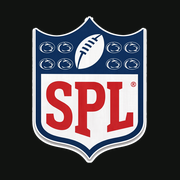
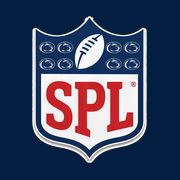
v0.5.1: Nittany theme (Penn State blue + white) replaces Stadium Lights
Navy header, white cards, Beaver Blue accents, gold/red only for Needs-you and
alerts; navy status bar + manifest; icons re-backed on navy (?v=3). Reel guards
for partial data.

Claude-Session: https://claude.ai/code/session_015P3LFQ2z16oDQov3WTi7Ug

diff --git a/index.html b/index.html
@@ -4,17 +4,17 @@
 <meta charset="utf-8">
 <meta name="viewport" content="width=device-width, initial-scale=1, viewport-fit=cover, maximum-scale=1">
 <meta name="robots" content="noindex">
-<meta name="theme-color" content="#111311">
+<meta name="theme-color" content="#041E42">
 <meta name="apple-mobile-web-app-capable" content="yes">
 <meta name="mobile-web-app-capable" content="yes">
 <meta name="apple-mobile-web-app-status-bar-style" content="black-translucent">
 <meta name="apple-mobile-web-app-title" content="SPL HQ">
 <link rel="manifest" href="manifest.json">
-<link rel="apple-touch-icon" sizes="180x180" href="icons/icon-180.png?v=2">
-<link rel="icon" type="image/png" sizes="64x64" href="icons/favicon-64.png?v=2">
-<link rel="icon" type="image/png" sizes="192x192" href="icons/icon-192.png?v=2">
+<link rel="apple-touch-icon" sizes="180x180" href="icons/icon-180.png?v=3">
+<link rel="icon" type="image/png" sizes="64x64" href="icons/favicon-64.png?v=3">
+<link rel="icon" type="image/png" sizes="192x192" href="icons/icon-192.png?v=3">
 <title>SPL HQ</title>
-<!-- SPL HQ app · v0.5 · 2026-11-25. Plan: docs/SPL_REEL_PLAN.md. Rules: CLAUDE.md. -->
+<!-- SPL HQ app · v0.5.1 · 2026-11-25. Plan: docs/SPL_REEL_PLAN.md. Rules: CLAUDE.md. -->
 <style>
 :root{
   --night:#111311; --surface:#1B1E1B; --raised:#232823; --line:#2C312C;
@@ -165,11 +165,45 @@ nav.tabs .badge{position:absolute;top:2px;left:55%;background:var(--coral);color
 .offer .grid{grid-template-columns:1fr 1fr}
 .composer{position:fixed;left:0;right:0;bottom:calc(var(--bot) + 62px);background:var(--night);border-top:1px solid var(--line);padding:8px 12px;display:flex;gap:8px;z-index:9}
 .composer textarea{min-height:40px;max-height:120px;height:40px;flex:1;padding:9px 10px}
+/* ===== "Nittany" theme (Mike 11/25): Penn State blue + white. Replaces Stadium Lights. ===== */
+:root{
+  --night:#FFFFFF; --surface:#FFFFFF; --raised:#EEF3FA; --line:#D6DFEC;
+  --chalk:#0B1F3A; --muted:#5D6E89; --soft:#33465F;
+  --lime:#1E407C; --gold:#B88A2E; --coral:#C8102E;
+}
+html,body{background:#F2F5FA}
+header{background:#041E42;border-bottom:0;color:#fff}
+header h1 small{color:#96BEE6}
+header .pill{background:rgba(255,255,255,.12);border-color:rgba(255,255,255,.2);color:#cfe0f5}
+header .pill.ok{color:#96BEE6}
+header .me{background:#fff;color:#041E42}
+nav.tabs{background:#fff;border-top:1px solid var(--line);box-shadow:0 -2px 12px rgba(4,30,66,.06)}
+nav.tabs button.on{color:#041E42}
+.card,.dcard,.tile{box-shadow:0 1px 3px rgba(4,30,66,.08)}
+.card.lead{background:linear-gradient(135deg,#041E42,#1E407C);border:0;color:#fff}
+.card.lead .eyebrow{color:#96BEE6} .card.lead p{color:#dbe7f6}
+.dcard.hero{border:2px solid #1E407C} .dcard.needs{border:2px solid #B88A2E}
+.stamp.me{background:#1E407C;color:#fff} .stamp.lg{background:#041E42;color:#fff}
+.acttag{background:#B88A2E;color:#fff}
+.vs .win .sc,.lime{color:#1E407C}
+.zero{background:#1E407C;color:#fff}
+.irail i.on{background:#1E407C}
+.swu .dn{background:#1E407C;color:#fff} .swu .sv{background:#B88A2E;color:#fff}
+.undo{background:#041E42;color:#fff} .undo button{background:#96BEE6;color:#041E42}
+.saved{background:#FFF6E3} .saved.dnc{background:#E8F0FB;border-color:#1E407C;color:#1E407C}
+.game.mine{background:linear-gradient(90deg,rgba(30,64,124,.08),transparent)}
+.msg.me{background:#1E407C;color:#fff;border-color:#1E407C}
+.tag{background:#EEF3FA;color:#8A6516;border-color:#E3D3AE}
+textarea,input[type=text],select{background:#fff}
+.btn.ghost{background:#fff;color:#1E407C;border-color:#C9D6EA}
+.chip{background:#fff}
+.chip.on{background:#1E407C;color:#fff;border-color:#1E407C}
+.feedwrap{background:transparent}
 </style>
 </head>
 <body>
 <header>
-  <img class="crest" src="icons/crest.png?v=2" alt="SPL crest, back to Home" role="link" onclick="go('home')">
+  <img class="crest" src="icons/crest.png?v=3" alt="SPL crest, back to Home" role="link" onclick="go('home')">
   <h1>SPL HQ<small id="sub">State Penn League</small></h1>
   <span class="pill" id="conn">…</span>
   <button class="me" id="meBtn" onclick="go(ME ? 'you' : 'signin')">Sign in</button>
@@ -188,7 +222,7 @@ nav.tabs .badge{position:absolute;top:2px;left:55%;background:var(--coral);color
 "use strict";
 // ---- Config. API_URL = the Apps Script web app URL (Deploy → Web app). Public by design: it's not a secret.
 var API_URL = "https://script.google.com/macros/s/AKfycbyGjG8LNEpCBceV5DulbfyMGLk7_NnW_W8q_y0sq47-5LEbE9dOu9Rp3rSVK9YEmD_IRw/exec";
-var APP_VERSION = "0.5";
+var APP_VERSION = "0.5.1";
 
 // ---- Owners (from data/SPL_Owner_Registry.csv; names + teams only, no contact info ever).
 var OWNERS = [
@@ -314,7 +348,7 @@ function buildFeed(d) {
   if (ME && isDesk()) { var n = Object.keys(MY || {}).length;
     if (n < QUESTIONS.length) cards.push({ id: "questions", needs: 1, scope: "me", eb: "📋 For the commish", title: (me === "reilly" ? "Your questions, Joe" : "Questions for Joe"), body: '<div class="big">' + n + '<small class="muted" style="font-size:20px"> / ' + QUESTIONS.length + '</small></div><p>' + (me === "reilly" ? "Quick calls that decide how trades, picks and keeper contracts work in the app." : "Joe's answers shape the trade center. Answered so far.") + '</p>', action: [n ? "Keep going" : "Answer them", "go('joe')"] }); }
   var T = d.trades;
-  if (ME && T && T.ok) {
+  if (ME && T && T.ok && T.offers) {
     T.offers.filter(function (o) { return o.status === "PROPOSED" && o.to === me; }).forEach(function (o) {
       cards.push({ id: "offer:" + o.id, needs: 1, scope: "me", eb: "🔁 Trade offer · from " + esc(oname(o.from)), title: esc(oname(o.from)) + " wants to deal",
         body: '<div class="grid" style="gap:12px"><div><div class="eyebrow">You get</div>' + sideList(o.give, o.from) + '</div><div><div class="eyebrow">You send</div>' + sideList(o.get, o.to) + '</div></div>' + (o.note ? '<p class="story">“' + esc(o.note) + '”</p>' : ''),
@@ -326,7 +360,7 @@ function buildFeed(d) {
       cards.push({ id: "wire:" + o.id, scope: "league", eb: "📰 Trade wire" + (o.mode === "test" ? " · test" : ""), title: esc(oname(o.from)) + " ⇄ " + esc(oname(o.to)),
         body: '<div class="grid" style="gap:12px"><div><div class="eyebrow">' + esc(oname(o.to)) + ' gets</div>' + sideList(o.give, o.from) + '</div><div><div class="eyebrow">' + esc(oname(o.from)) + ' gets</div>' + sideList(o.get, o.to) + '</div></div>', action: ["Trade wire", "go('trades')"] }); });
   }
-  var mine = null, games = W && W.ok ? W.games : [];
+  var mine = null, games = W && W.ok && W.games ? W.games : [];
   games.forEach(function (g) { if (me && ((g.home && g.home.owner === me) || (g.away && g.away.owner === me))) mine = g; });
   // ⚔ You: your game
   if (mine) {
@@ -357,7 +391,7 @@ function buildFeed(d) {
       action: ["Open it", "go('match','" + wk + ":" + games.indexOf(close) + "')"] });
   }
   // 📊 League: the table
-  if (d.stand && d.stand.ok) {
+  if (d.stand && d.stand.ok && d.stand.teams) {
     var t = sortTeams(d.stand.teams), myRank = -1; t.forEach(function (x, i) { if (me && x.owner === me) myRank = i; });
     cards.push({ id: "table", scope: "league", eb: "📊 The table · after Week " + (d.stand.week ? d.stand.week - 1 : ""),
       body: t.slice(0, 6).map(function (x, i) { return '<div class="kv' + (x.owner === me ? " mine" : "") + '"><span><span class="muted">' + (i + 1) + '</span> ' + esc(x.name) + '</span><span>' + x.w + '–' + x.l + (x.t ? '–' + x.t : '') + '</span></div>'; }).join("") +

diff --git a/sw.js b/sw.js
@@ -1,6 +1,6 @@
 // SPL HQ service worker: network first for the app's own files, cached copy when offline.
 // Never caches the backend (script.google.com): live data is always fetched fresh.
-var CACHE = "splhq-v5";
+var CACHE = "splhq-v6";
 self.addEventListener("install", function (e) { self.skipWaiting(); });
 self.addEventListener("activate", function (e) { e.waitUntil(self.clients.claim()); });
 self.addEventListener("fetch", function (e) {

diff --git a/CLAUDE.md b/CLAUDE.md
@@ -35,10 +35,13 @@ Status log: `docs/STATUS.md`. Modeled on MAFFL HQ's REEL (`maffl-commish/maffl`)
 - Structural layout changes (tabs, navigation, page architecture) need Mike's OK. Content inside existing elements doesn't.
 - Keep each backend file under ~90 KB (Apps Script cache limit); split into parts like MAFFL when it grows.
 
-## Look and feel — "Stadium Lights"
-Night `#111311` · Surface `#1B1E1B` · Raised `#232823` · Line `#2C312C` · Chalk `#EDEFE8` · Muted `#9CA59C` ·
-Lime `#B8E04A` (accent, dark text on it) · Coral `#FF7A59` (alerts) · Gold `#D9A94A` (champions, tags).
+## Look and feel — "Nittany" (Penn State blue + white, Mike 11/25; replaced Stadium Lights)
+Nittany Navy `#041E42` (header bar, headings feel) · Beaver Blue `#1E407C` (buttons, accents, wins, your stuff) ·
+Pugh Blue `#96BEE6` (small accents on navy) · White cards on `#F2F5FA` · Text `#0B1F3A` · Muted `#5D6E89` · Line `#D6DFEC` ·
+Gold `#B88A2E` (Needs you, keeper tags, champions) · Red `#C8102E` (injuries, alerts only).
+The theme lives in the "Nittany" block at the end of the `<style>` (CSS variables `--lime` = Beaver Blue, `--night` = white).
 Headings condensed uppercase 800; numbers monospace. Bottom tabs: Home · Match · Team · Chat · League. SPL crest top-left → Home.
+Icons sit on Nittany Navy.
 
 ## Layout
 ```

diff --git a/docs/SPL_REEL_PLAN.md b/docs/SPL_REEL_PLAN.md
@@ -7,6 +7,7 @@ Building SPL HQ as a REEL-style app (owner sign-in, ESPN link, trades with autom
 
 ## 0. Decisions (newest on top)
 
+- 2026-11-25 · **Theme: "Nittany"** (Penn State blue + white) replaces Stadium Lights (black/neon). Supersedes the wireframe doc's theme choice.
 - 2026-11-25 · **Trade center v1 in test mode** with defaults until Joe answers: 2027 picks only (17 rounds), contracts travel with the player, commish approves every trade, no self-approval (Joe ↔ Mike trades: either approves, flagged). Live pick ledger = Sheet Picks tab (export to gold `Draft_Pick_Ownership.csv` comes with the ledger robot).
 - 2026-11-25 · **Home = the REEL feed**, same mechanics as MAFFL (swipe ← done / → save, Saved/Done buckets, Undo, needs-you cards locked, caught-up end card). SPL card series start from live ESPN + keeper data; drops, reactions and Claude card lines follow MAFFL REEL_SERIES once the trade center is in.
 - 2026-11-25 · **Joe gets a real login** (Mike), same as every owner will: passphrase made on the Ops desk, texted by Mike, device token on the phone. No `#joe` shortcut or name picker. Roles live in the Owners tab (`role`: owner / commish / ops).

diff --git a/docs/STATUS.md b/docs/STATUS.md
@@ -11,6 +11,7 @@ _Read first. Newest on top._ **Last updated:** 2026-11-25 by Claude (chat)
 ESPN co-commish · test-league demo · traded keeper contracts · pick seasons · trade approval + review window · key dates · chat · Al vs James Farrington · Joe's #1 wish.
 
 ## Recently shipped
+- 2026-11-25 · v0.5.1 · 🎨 "Nittany" theme (Mike): Penn State blue + white replaces the black/neon Stadium Lights look. Navy header, white cards, Beaver Blue buttons and accents, gold only for Needs-you/keeper tags, red only for alerts. Status bar + manifest navy; Home Screen icons re-backed on navy (`?v=3`). Re-add the Home Screen icon to pick up the new icon.
 - 2026-11-25 · v0.5 · 🔁 **Trade center** (test mode). Offers mix players + 2027 draft picks; keeper contracts travel with their player (🔒 shown
   with KP). Flow: offer → accept / decline / counter / withdraw → commish approve / negate (reason) → picks move in the ledger. Players checked
   against live ESPN rosters, picks against the Picks tab (seeded: every team owns its own 2027 rounds 1–17), double taps return the same offer,
